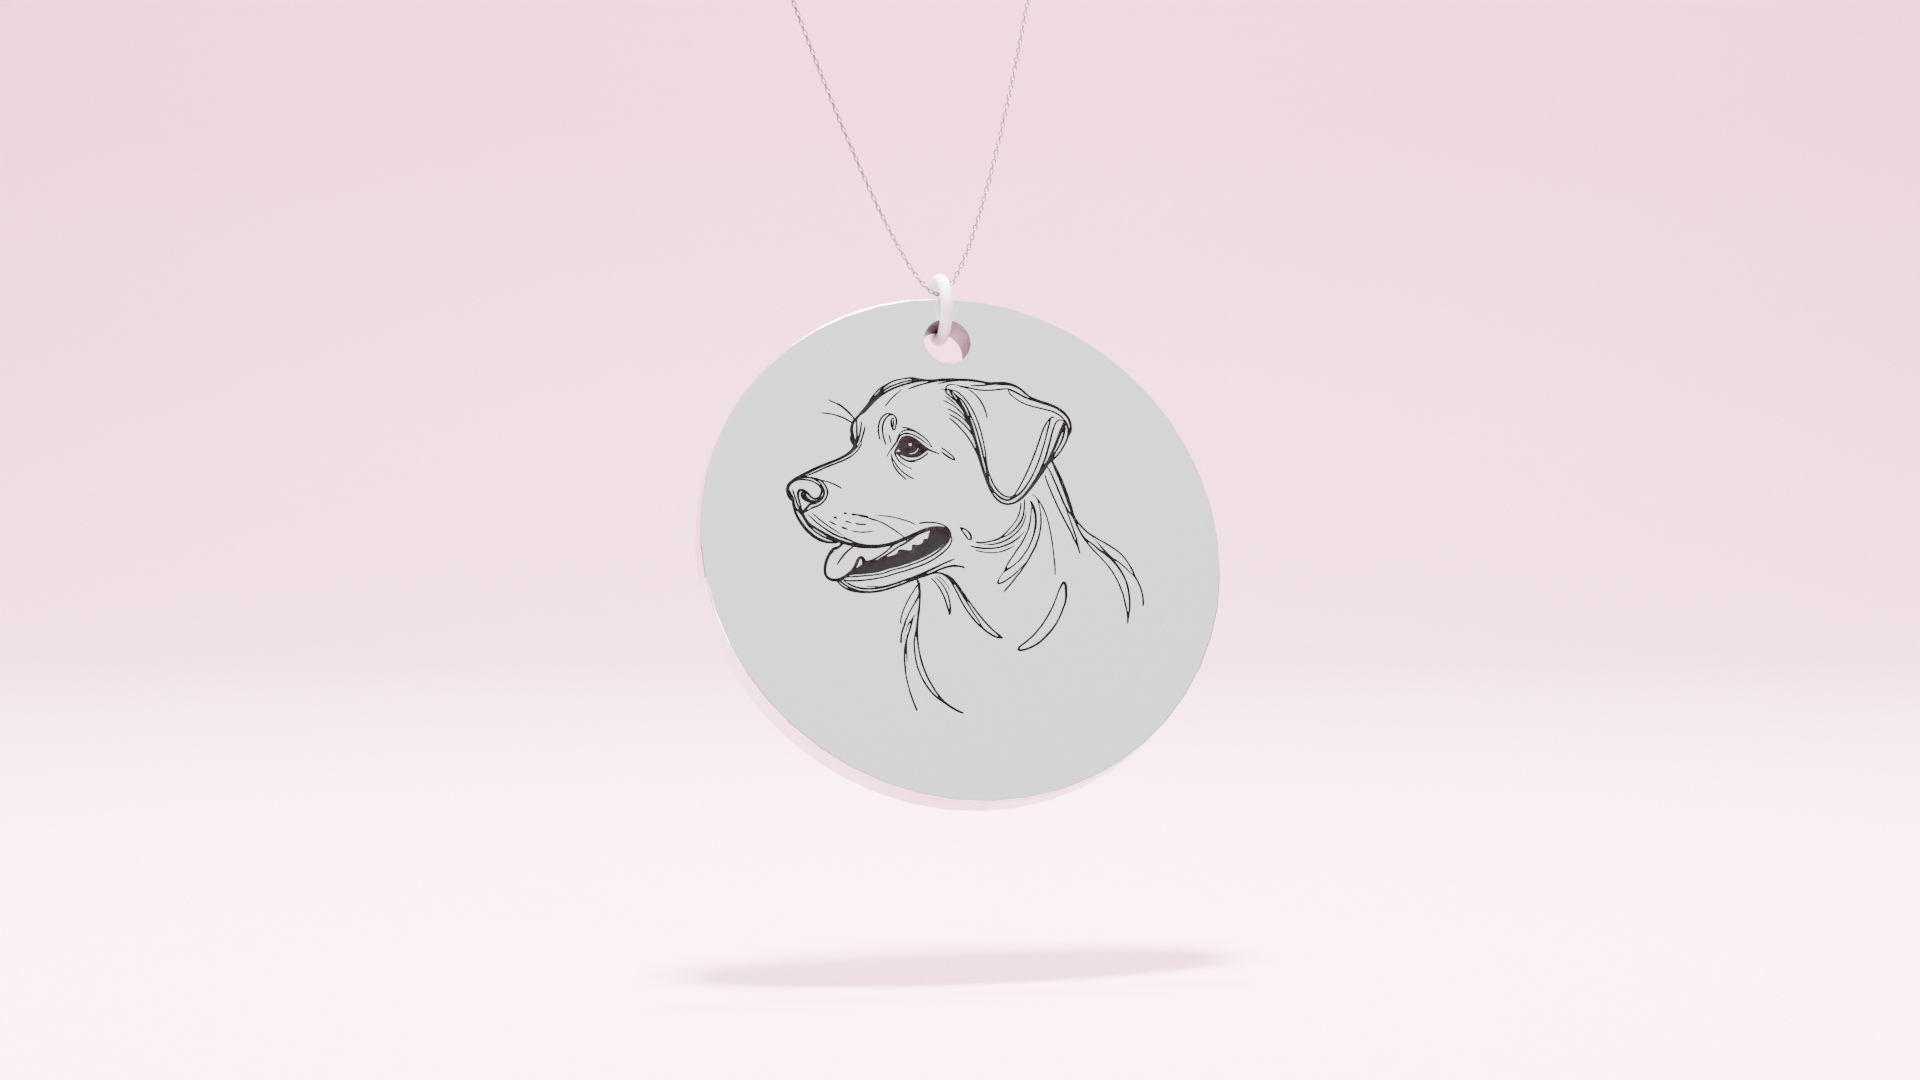
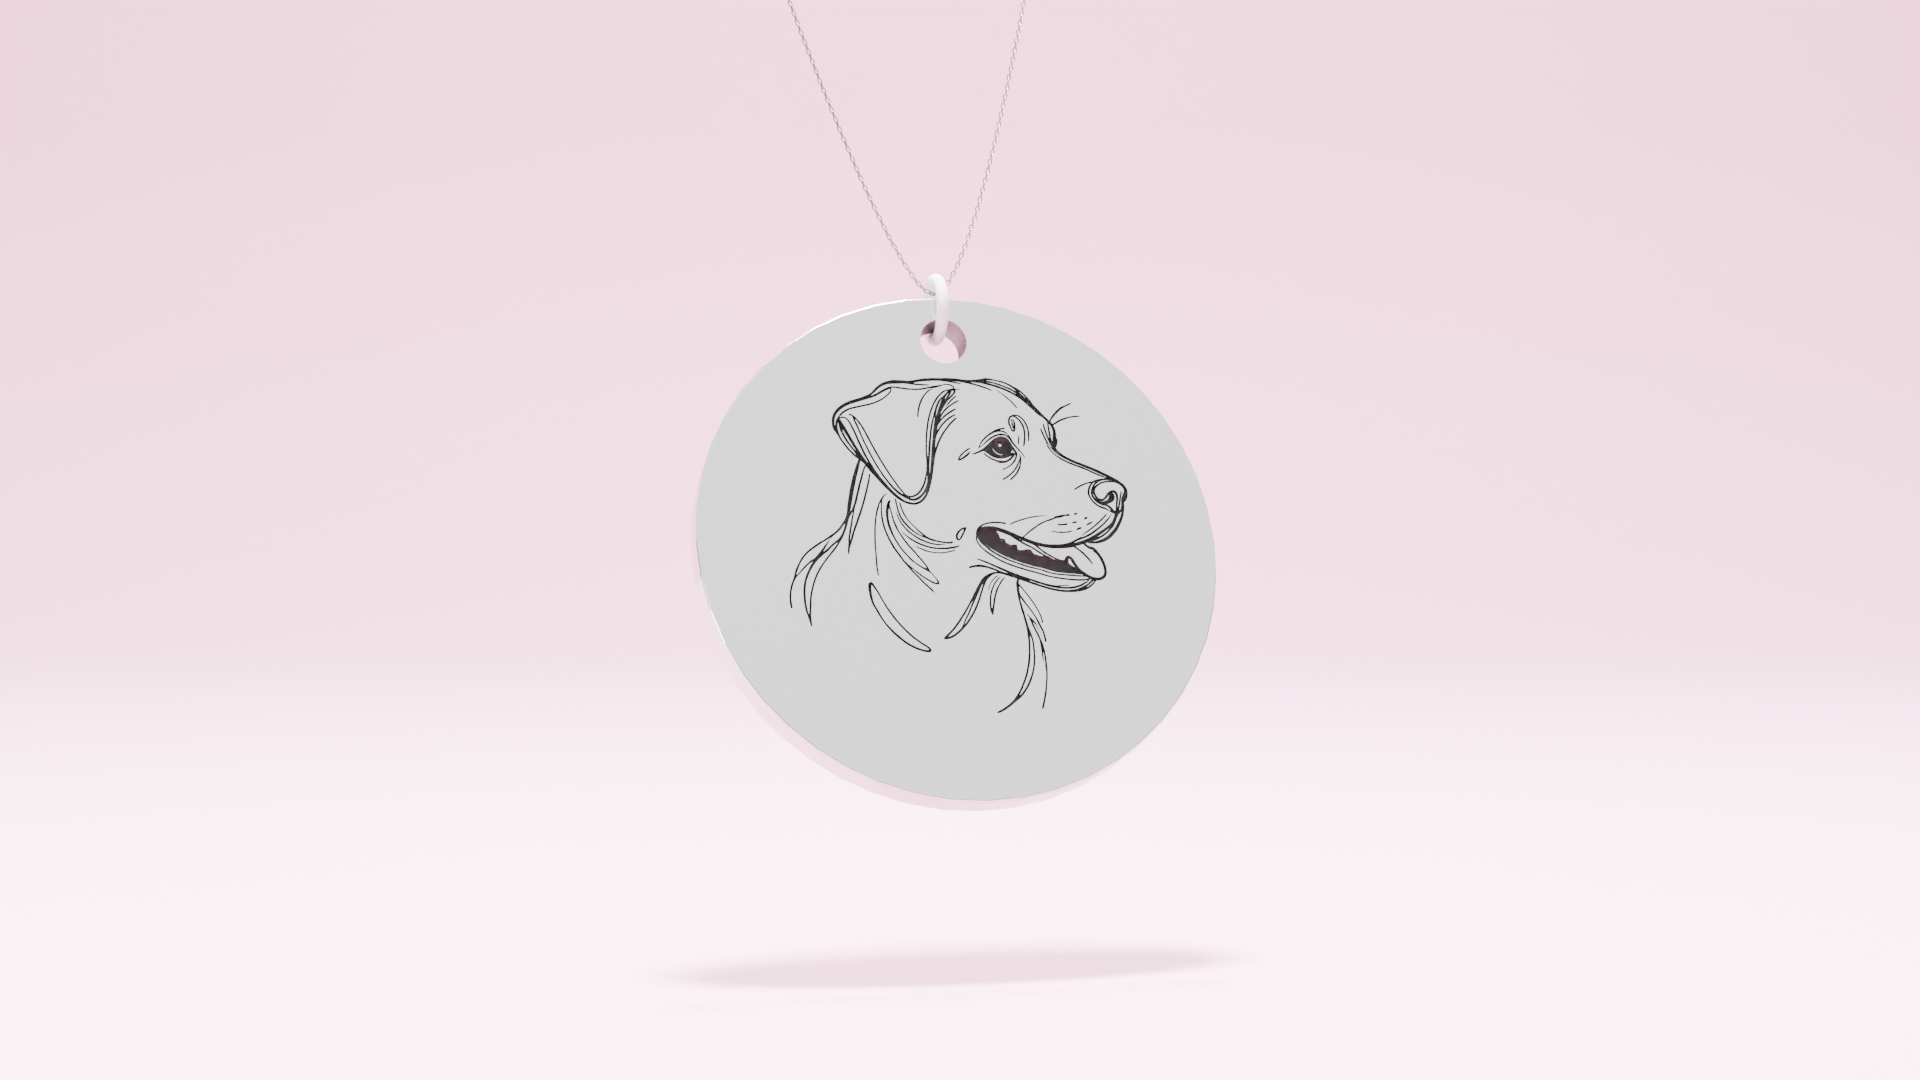
adding svgs

Changed region(s): [[0.4062, 0.3056, 0.5938, 0.6417]]

diff --git a/app/controllers/image_processor.py b/app/controllers/image_processor.py
@@ -1,44 +1,82 @@
-import ezdxf, os, ezdxf, requests, math, numpy as np
+import ezdxf, os, ezdxf, requests, math, numpy as np, svgwrite
 from ezdxf.math import Matrix44
 from io import BytesIO
-from skimage import io, transform, filters, measure, morphology
+from skimage import io, transform, filters, measure
+
+
+class ImageProcessor:
+    @staticmethod
+    def process_image(image_url, target: str):
+        response = requests.get(image_url)
+        response.raise_for_status()
+        img = io.imread(BytesIO(response.content), as_gray=True)
+        img = transform.resize(img, (img.shape[0] * 2, img.shape[1] * 2), anti_aliasing=True)
+        img = filters.gaussian(img, sigma=1.5)
+        if   target == 'dxf': img = np.fliplr(img)
+        elif target == 'svg': img = np.rot90(img)
+        threshold_value = filters.threshold_otsu(img)
+        binary = img > threshold_value
+        contours = measure.find_contours(binary, level=0.8, fully_connected='high')
+        smoothed_contours = [measure.approximate_polygon(contour, tolerance=2.0) for contour in contours]
+        return smoothed_contours
+
+class SVGProcessor:
+    def __init__(self, data):
+        self.data = data
+
+    def get_svg_file(self):
+        image_url = self.data.get('image_url')
+        contours = ImageProcessor.process_image(image_url, target='svg')
+        svg_content = self.create_svg(contours)
+        svg_file_path = self.save_svg(svg_content)
+        return svg_file_path
+
+    def create_svg(self, contours):
+        dwg = svgwrite.Drawing()
+        for contour in contours:
+            points = [(x, y) for x, y in contour]
+            dwg.add(dwg.polyline(points, stroke='black', fill='none'))
+        return dwg
+
+    def save_svg(self, svg_content):
+        svg_file_path = os.path.join(self.data.get('cwd'), f"{self.data.get('obj_name')}.svg")
+        svg_content.saveas(svg_file_path)
+        return svg_file_path
 
 
 class DXFProcessor:
     def __init__(self, data: dict):
-        self.doc       = ezdxf.new(dxfversion='R2010')
-        self.doc.units = ezdxf.units.MM
+        self.doc       = ezdxf.new(dxfversion='R2018', units=ezdxf.units.MM)
         self.msp       = self.doc.modelspace()
         self.data      = data
         self.body      = self.get_body()
         self.handles   = self.get_handles()
         self.engraving = self.get_engraving()
 
-    def __call__(self):
+    def get_dxf(self):
         dxf_directory = os.path.join(self.data['cwd'], "blender_files")
         dxf_path = os.path.join(dxf_directory, str(self.data['sku']) + '.dxf')
         if not os.path.exists(dxf_directory): os.makedirs(dxf_directory)
-        return self.save_dxf(dxf_path)
-
-    def process_image(self):
-        if not self.data.get('image_url') and 'input' in self.data:
-            img = io.imread(self.data['input'], as_gray=True)
-        else:
-            response = requests.get(self.data.get('image_url'))
-            img = io.imread(BytesIO(response.content), as_gray=True)
-        
-        img = transform.resize(img, (img.shape[0] * 2, img.shape[1] * 2), anti_aliasing=True)
-        img = filters.gaussian(img, sigma=1)
-        img = np.fliplr(img)
-        threshold_value = filters.threshold_otsu(img)
-        binary = img > threshold_value
-        contours = measure.find_contours(binary, level=0.8, fully_connected='high')
-        return contours
+        self.doc.saveas(dxf_path, encoding='utf-8')
+        return dxf_path
 
     def get_body(self):
         layer_name = 'body'
         self.add_layer(layer_name)
+        if 'from_svg' in self.data:
+            return self.get_body_from_svg()
         return self.msp.add_circle(center=(0, 0), radius=self.data.get('obj_size', 12)/2, dxfattribs={'layer': layer_name})
+    
+    def get_body_from_svg(self):
+        svg_file_path = os.path.join(self.data['cwd'], f"{self.data['from_svg']}.svg")
+        svg = ezdxf.readfile(svg_file_path)
+        msp = svg.modelspace()
+
+        for entity in msp:
+            if entity.dxftype() == 'LINE':
+                msp.add_lwpolyline(entity.get_points(), dxfattribs={'layer': 'body'})
+        
+        return svg
 
     def get_handles(self):
         diameter: float = 1.1
@@ -65,7 +103,7 @@ class DXFProcessor:
         self.add_layer(layer_name)
         elements = []
     
-        for contour in self.process_image():
+        for contour in ImageProcessor.process_image(self.data.get("image_url"), target='dxf'):
             transformed_contour = [(y, -x) for x, y in contour]
             element = self.msp.add_lwpolyline(transformed_contour, dxfattribs=dxfattribs, close=True)
             elements.append(element)
@@ -158,24 +196,3 @@ class DXFProcessor:
         x_min, y_min, x_max, y_max = coords
         points = [(x_min, y_min), (x_min, y_max), (x_max, y_max), (x_max, y_min), (x_min, y_min)]
         self.msp.add_lwpolyline(points, dxfattribs={"layer": 'body'},close=True)
-
-    def save_dxf(self, file_path: str):
-        self.doc.audit()
-        self.doc.saveas(file_path, encoding='utf-8')
-        return file_path
-
-
-# def main(data):
-#     processor = DXFProcessor(data)
-#     processor.save_dxf()
-
-# if __name__ == "__main__":
-#     cwd = os.path.join(os.getcwd(), "assets")
-#     obj_data = {
-#         "obj_type": "necklace",
-#         "obj_size": 12,
-#         "sku": "123456",
-#         "input": f"{os.path.join(cwd, "cook.jpg")}",
-#         "output": "assets/cook.dxf"
-#     }
-#     main(obj_data)

diff --git a/app/controllers/controller.py b/app/controllers/controller.py
@@ -1,27 +1,32 @@
 import os, subprocess, json, zipfile
 from flask import current_app
-from . import DXFProcessor
+from . import DXFProcessor, SVGProcessor
 
 
 class Controller:
-    def __init__(self, data) -> None:
+    def __init__(self, data):
+        data['cwd'] = os.path.join(os.getcwd(), "app", "static")
         self.data = data
 
-    def __call__(self):
-        return self.get_archive()
-
     def get_archive(self):
-        data = self.get_processed_image(self.data)
-        dxf_file = data.get('dxf_file')
-        output = data.get('output')
-        sku = data.get('sku')
+        self.get_dxf_and_image()
+        return self.create_archive()
+
+    def get_dxf_and_image(self):
+        self.data['output'] = os.path.join(self.data['cwd'], 'blender_files', f'{self.data["sku"]}.png')
+        self.data['dxf_file'] = DXFProcessor(self.data).get_dxf()
+
+    def create_archive(self):
+        dxf_file = self.data.get('dxf_file')
+        output   = self.data.get('output')
+        sku      = self.data.get('sku')
 
         if current_app.debug:
             return output
-
+        self.start_blender()
         archive_dir = os.path.join(self.data.get('cwd'), 'archive')
-        if not os.path.exists(archive_dir): os.makedirs(archive_dir)
-
+        if not os.path.exists(archive_dir):
+            os.makedirs(archive_dir)
         archive_path = os.path.join(archive_dir, f"{sku}.zip")
 
         with zipfile.ZipFile(archive_path, 'w', zipfile.ZIP_DEFLATED) as archive:
@@ -29,28 +34,23 @@ class Controller:
             archive.write(output, arcname=os.path.basename(output))
         return archive_path
 
-    def get_processed_image(self, data: dict):
-        data['cwd'] = os.path.join(os.getcwd(), "app", "static")
-        data['output'] = os.path.join(data['cwd'], 'blender_files', f'{data["sku"]}.png')
-        data['dxf_file'] = DXFProcessor(data)()
+    def create_svg(self):
+        svg = SVGProcessor(self.data)
+        response = svg.get_svg_file()
+        return response
 
-        self.write_json(data)
-        self.start_blender(data)
+    def start_blender(self):
+        self.write_json()
+        script_path = os.path.join(self.data["cwd"], "blenderworker.py")
 
-        return data
-
-    def start_blender(self, data):
-        script_path = os.path.join(data["cwd"], "blenderworker.py")
-        
         if os.getenv('BLENDER_URL'):
             command = ["blender", "-b", "-P", script_path, "--log-level", "0"]
         else:
             blender_path = os.getenv('blender', r"C:\Program Files\Blender Foundation\Blender 4.1\blender.exe")
             command = [blender_path, "--background", "--python", script_path]
-        
         subprocess.run(command)
 
-    def write_json(self, data):
-        json_path = os.path.join(data['cwd'], 'blender_files', 'temp.json')
+    def write_json(self):
+        json_path = os.path.join(self.data['cwd'], 'blender_files', 'temp.json')
         with open(json_path, 'w') as f:
             json.dump(self.data, f)

diff --git a/app/routes.py b/app/routes.py
@@ -3,6 +3,9 @@ from app import app
 from app.controllers import Controller
 import os
 
+# TODO 
+# SKU needs to be integer
+# obj_size needs to be integer
 @app.route('/', methods=['POST'])
 def hello():
     expected_fields = {
@@ -10,25 +13,23 @@ def hello():
         'sku': '123456',
         'obj_type': 'necklace',
         'obj_size': 12,
+        'from_svg': 'bone'
     }
     
     data = {field: request.form.get(field, default) for field, default in expected_fields.items()}
-    response = send_file(Controller(data)())
-
-    # Stop the Docker container
-    container_id = os.getenv('HOSTNAME')
-    os.system(f'docker stop {container_id}')
+    controller = Controller(data)
+    response = send_file(controller.get_archive())
 
     return response
 
-# TODO 
-# SKU needs to be integer
-# obj_size needs to be integer
+@app.route('/register-shape', methods=['POST'])
+def register_shape():
+    expected_fields = {
+        'image_url': None,
+        'obj_name': 'bone',
+    }
+    data = {field: request.form.get(field, default) for field, default in expected_fields.items()}
+    controller = Controller(data)
+    response = controller.create_svg()
 
-
-# @app.route('/view-data')
-# def view_data():
-#     response = {
-#         'data': get_processed_image(session.get('data', {})),
-#     }
-#     return jsonify(response)
+    return response

diff --git a/app/controllers/__init__.py b/app/controllers/__init__.py
@@ -1,2 +1,2 @@
-from .dxf_processor import DXFProcessor
+from .image_processor import DXFProcessor, SVGProcessor
 from .controller import Controller
